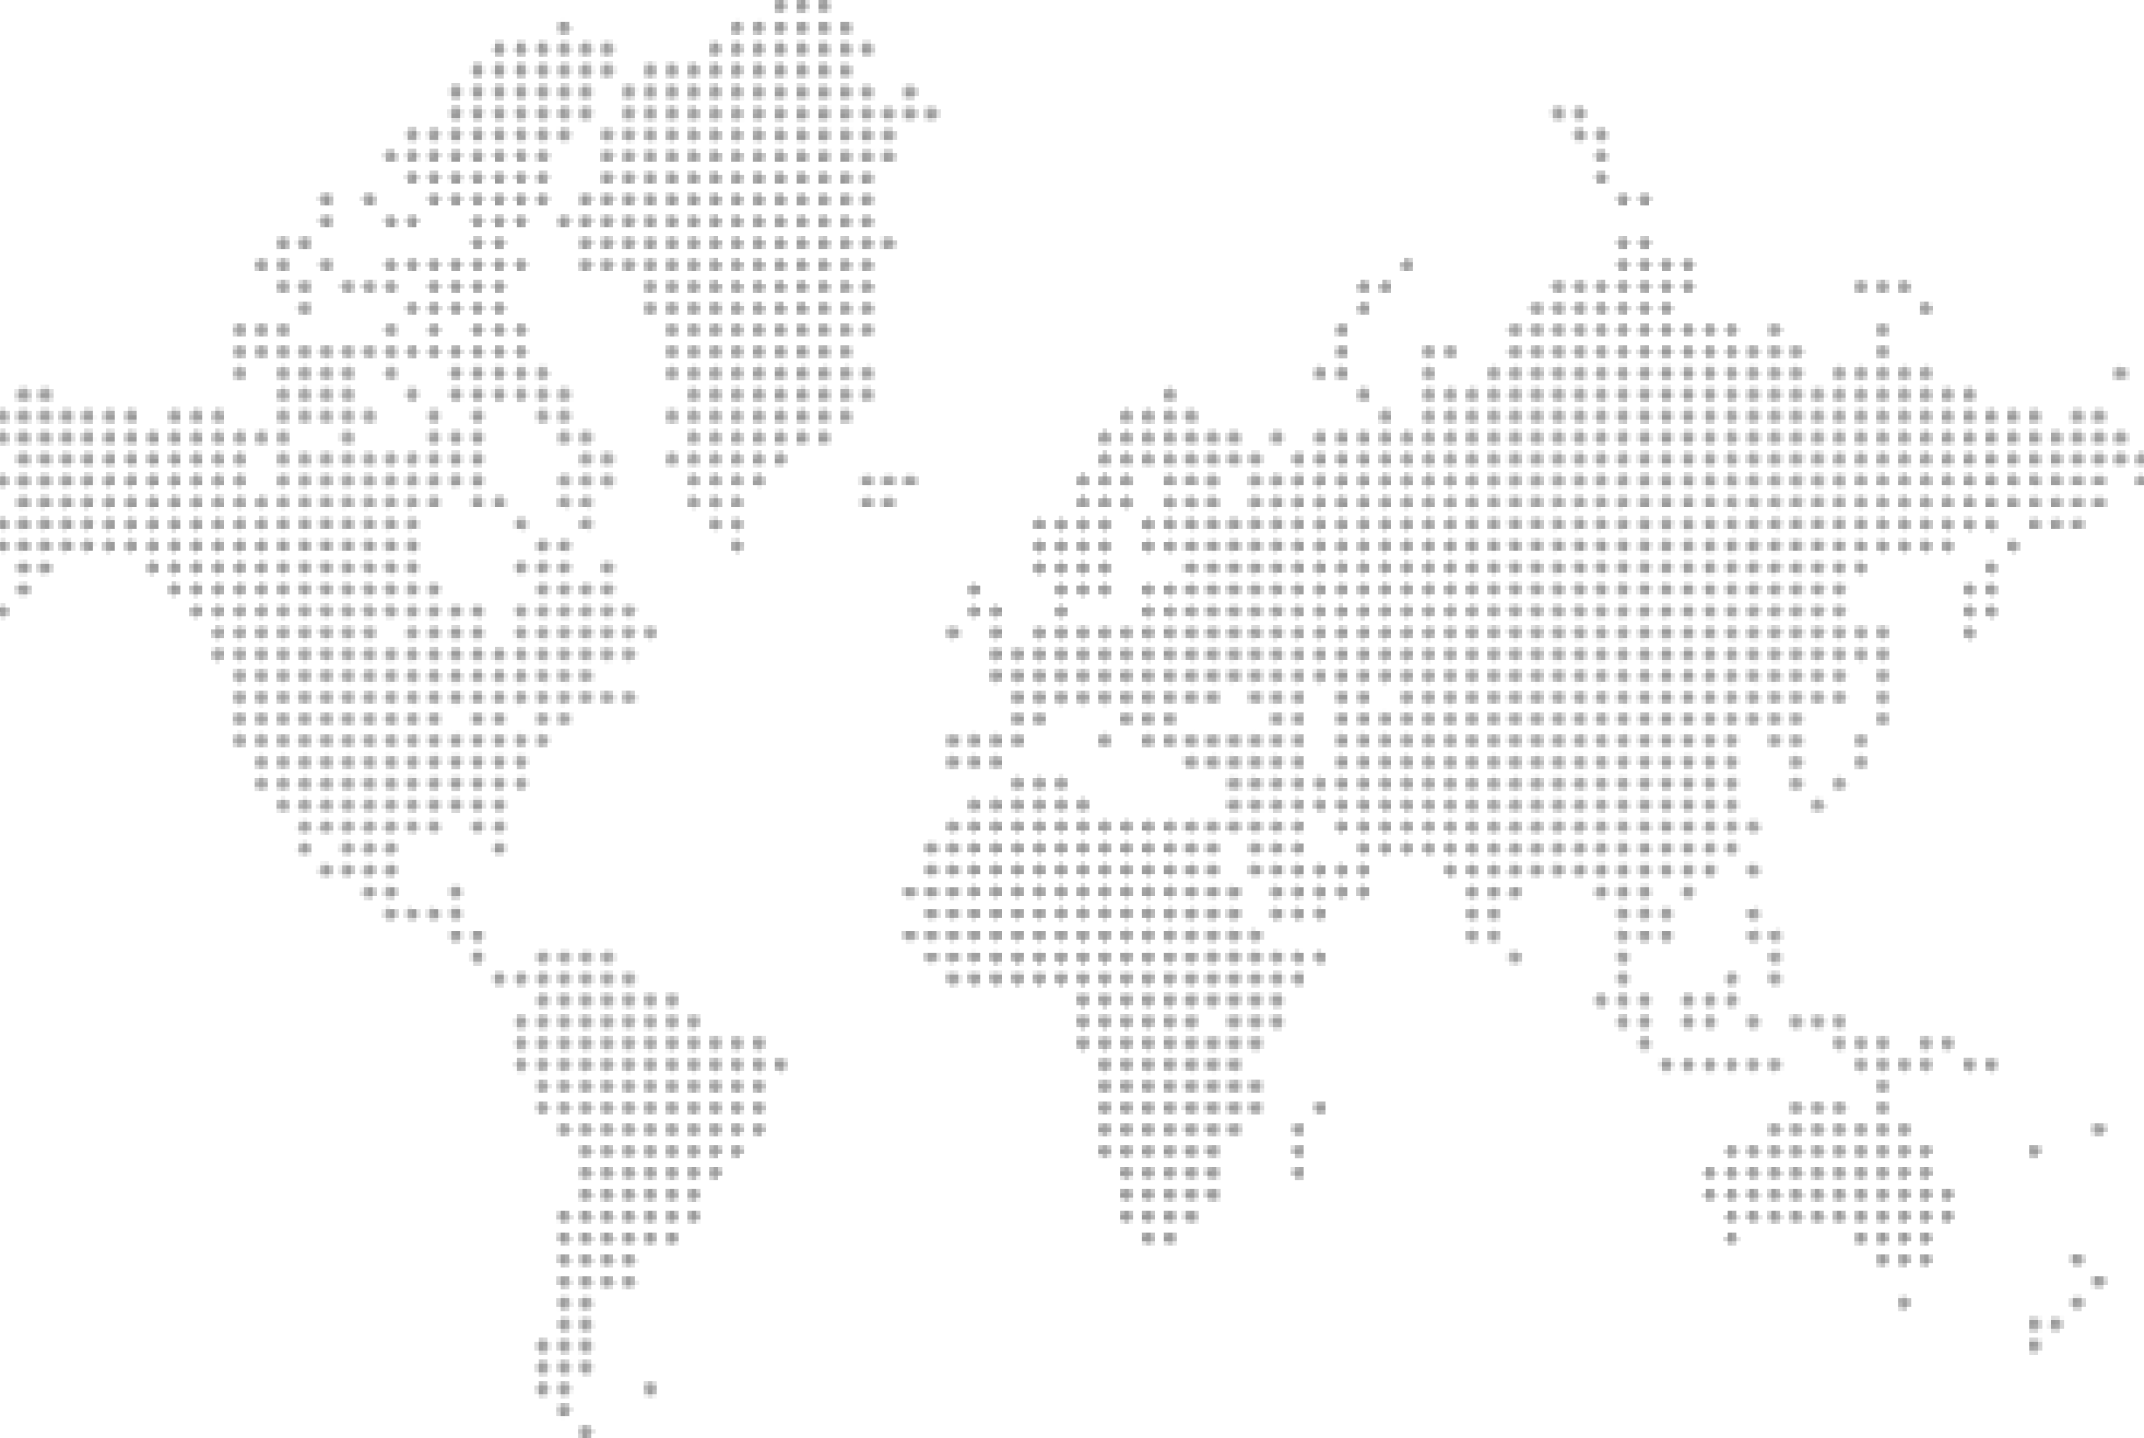
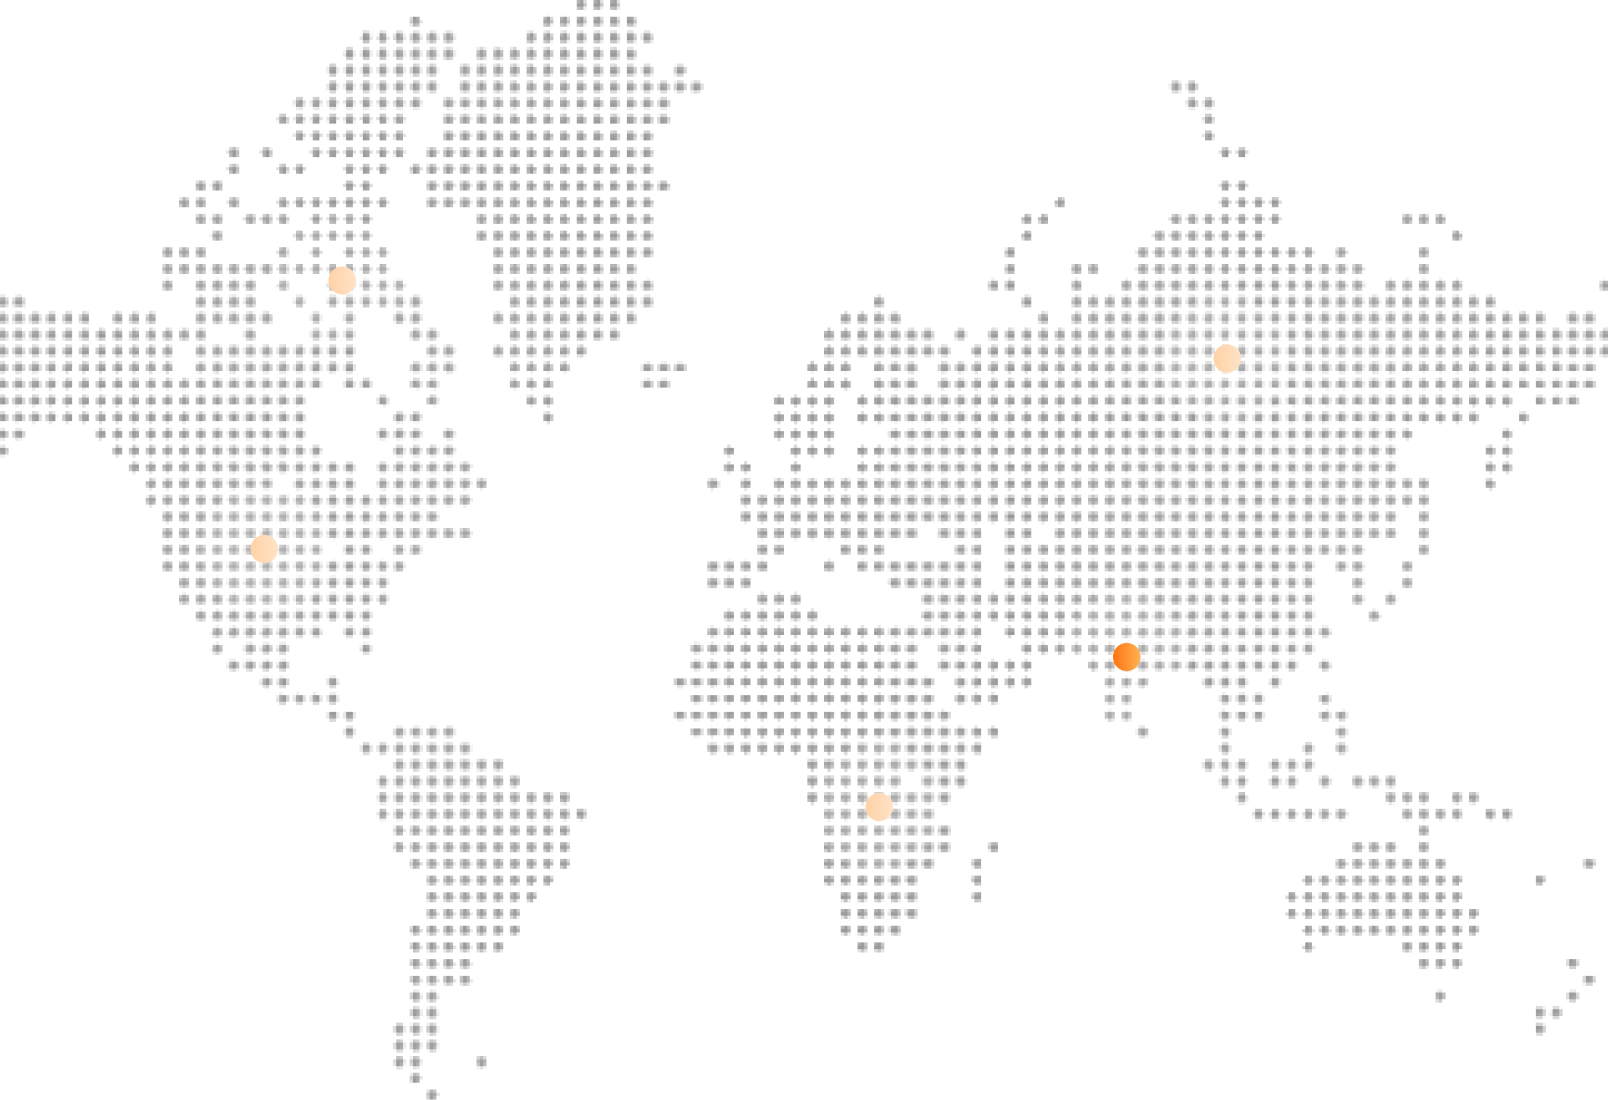
Fix map point in Contact page

diff --git a/pages/page/page5/colabHead/index.js b/pages/page/page5/colabHead/index.js
@@ -8,10 +8,7 @@ import {
   MapIcon,
   ImagePoint,
   MapBox,
-  ImgPoint1,
-  ImgPoint2,
-  ImgPoint3,
-  ImgPointMain,
+  HoverText,
 } from "./style";
 
 const index = () => {
@@ -23,12 +20,12 @@ const index = () => {
             Text="Lets"
             lg="linear-gradient(to right, #ffa73d, gold)"
             font
-            size="3.8rem"
+            size="clamp(4rem, 2.5vw, 4rem)"
             fw="400"
             align="left"
             lh="70px"
-            xmsize="4rem"
-            xssize="3.5rem"
+            xmsize="clamp(2.5rem, 5vw, 4rem)"
+            xssize="clamp(2.5rem, 5vw, 4rem)"
             msize="2.5rem"
             mwidth="100%"
             padding="0"
@@ -41,12 +38,12 @@ const index = () => {
             Collaborate "
             lg="linear-gradient(to right, #ffa73d, gold)"
             font
-            size="3.8rem"
+            size="clamp(4rem, 2.5vw, 4rem)"
             fw="400"
             align="left"
             lh="70px"
-            xmsize="4rem"
-            xssize="3.5rem"
+            xmsize="clamp(2.5rem, 5vw, 4rem)"
+            xssize="clamp(2.5rem, 5vw, 4rem)"
             msize="2.5rem"
             mwidth="100%"
             padding="0"
@@ -68,41 +65,9 @@ const index = () => {
         <MapIcon>
           <MapBox>
             <ImagePoint>
-              <ImgPoint1
-                style={{
-                  position: "relative",
-                  left: "80px",
-                  top: "150px",
-                  height: "50px",
-                  width: "50px",
-                  backgroundRepeat: "no-repeat",
-                }}
-                src="/content/pointGrey.png"
-              />
-              <ImgPoint2
-                style={{
-                  position: "relative",
-                  left: "106px",
-                  top: "285px",
-                  height: "50px",
-                  width: "50px",
-                }}
-                src="/content/pointGrey.png"
-              />
-              <ImgPoint3
-                style={{
-                  position: "relative",
-                  left: "330px",
-                  top: "100px",
-                  height: "50px",
-                  width: "50px",
-                }}
-                src="/content/pointGrey.png"
-              />
-              <ImgPointMain href="#" id="ramaera">
-                <img src="/content/point.png" />
-              </ImgPointMain>
-              <h3>Ramaera Industries</h3>
+              <HoverText>
+                <h3>Ramaera Industries</h3>
+              </HoverText>
             </ImagePoint>
           </MapBox>
         </MapIcon>

diff --git a/pages/page/page5/colabHead/style.js b/pages/page/page5/colabHead/style.js
@@ -7,7 +7,7 @@ export const Container = styled.div`
 
 export const Heading = styled.div`
   justify-content: center;
-  width: 50%;
+  //width: 50%;
   margin: auto;
   padding: 0 0 0 2rem;
   @media (max-width: 800px) {
@@ -19,7 +19,7 @@ export const Heading = styled.div`
 `;
 
 export const MapIcon = styled.div`
-  width: 50%;
+  width: 100vw;
   @media (max-width: 1000px) {
     width: 100%;
   }
@@ -35,61 +35,30 @@ export const MapBox = styled.div`
 `;
 
 export const ImagePoint = styled.div`
+  display: flex;
+  justify-content: center;
+  align-items: center;
   background-image: url("/content/map.png");
+  background-position: center;
   height: 100%;
   width: 100%;
   background-size: contain;
   background-repeat: no-repeat;
-
-  h3 {
-    display: none;
-    position: relative;
-    left: 284px;
-    top: 184px;
-    height: 50px;
-    font-family: personal;
-    background: #ffb76b;
-    background: linear-gradient(to right, #ffa73d, gold);
-    -webkit-background-clip: text;
-    -webkit-text-fill-color: transparent;
-  }
-
-  #ramaera:hover ~ h3 {
-    display: block;
-  }
 `;
 
-export const ImgPoint1 = styled.img`
-  @media (max-width: 600px) {
-    display: none;
-  }
-`;
-
-export const ImgPoint2 = styled.img`
-  @media (max-width: 600px) {
-    display: none;
-  }
-`;
-
-export const ImgPoint3 = styled.img`
-  @media (max-width: 600px) {
-    display: none;
-  }
-`;
-
-export const ImgPointMain = styled.a`
-  img {
-    position: relative;
-    left: 240px;
-    top: 210px;
-    height: 50px;
-    width: 50px;
-    @media (max-width: 600px) {
-      height: 25px;
-      width: 25px;
-      top: 65px;
-      left: 122px;
-    }
+export const HoverText = styled.div`
+  opacity: 0;
+  padding-top: 2%;
+  margin: 25% 0% 0% 40%;
+  height: 150px;
+  width: 250px;
+  font-family: personal;
+  background: #ffb76b;
+  background: linear-gradient(to right, #ffa73d, gold);
+  -webkit-background-clip: text;
+  -webkit-text-fill-color: transparent;
+  &:hover {
+    opacity: 100;
   }
 `;
 

diff --git a/pages/page/page5/colab/style.js b/pages/page/page5/colab/style.js
@@ -167,6 +167,8 @@ export const Fline3 = styled.div`
 `;
 export const TextArea = styled.textarea`
   background: white;
+  max-width: 100%;
+  min-height: 220px;
 `;
 
 export const ButtonHolder = styled.div`
